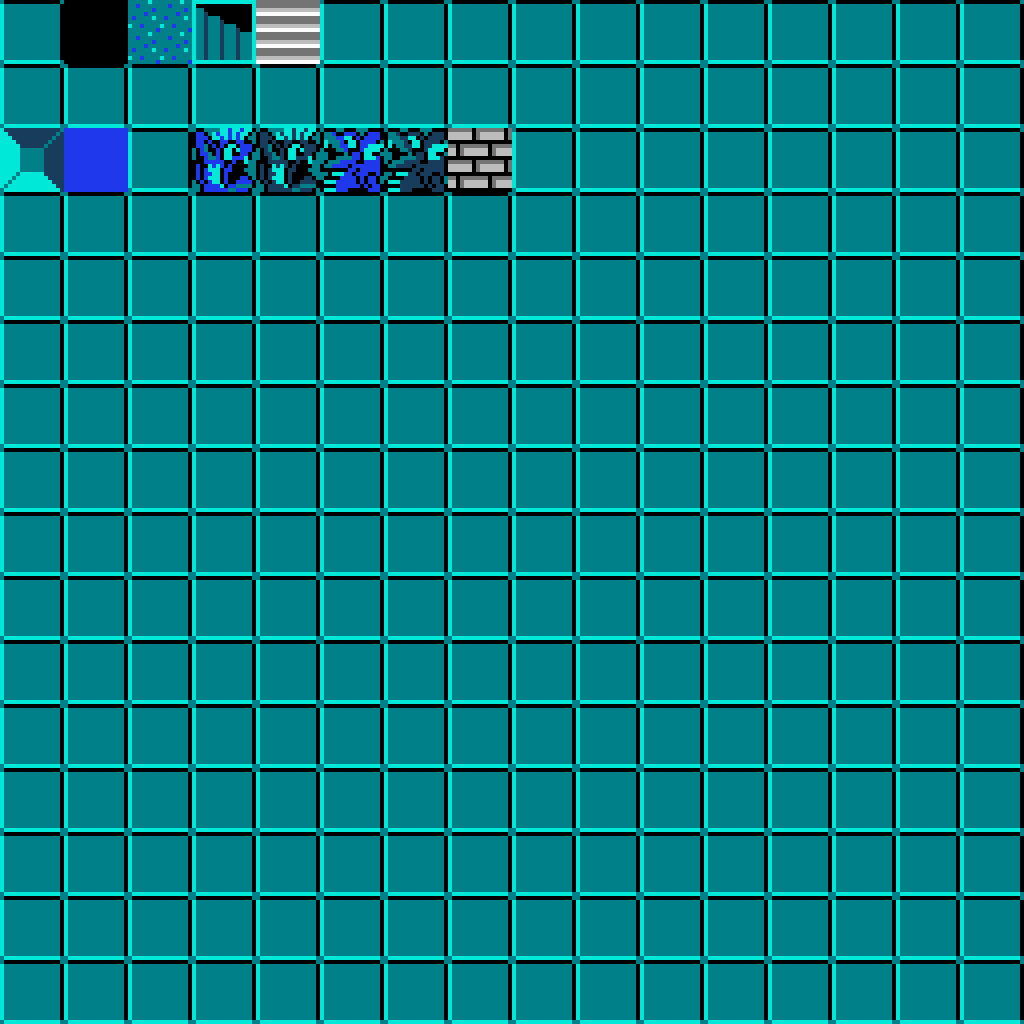
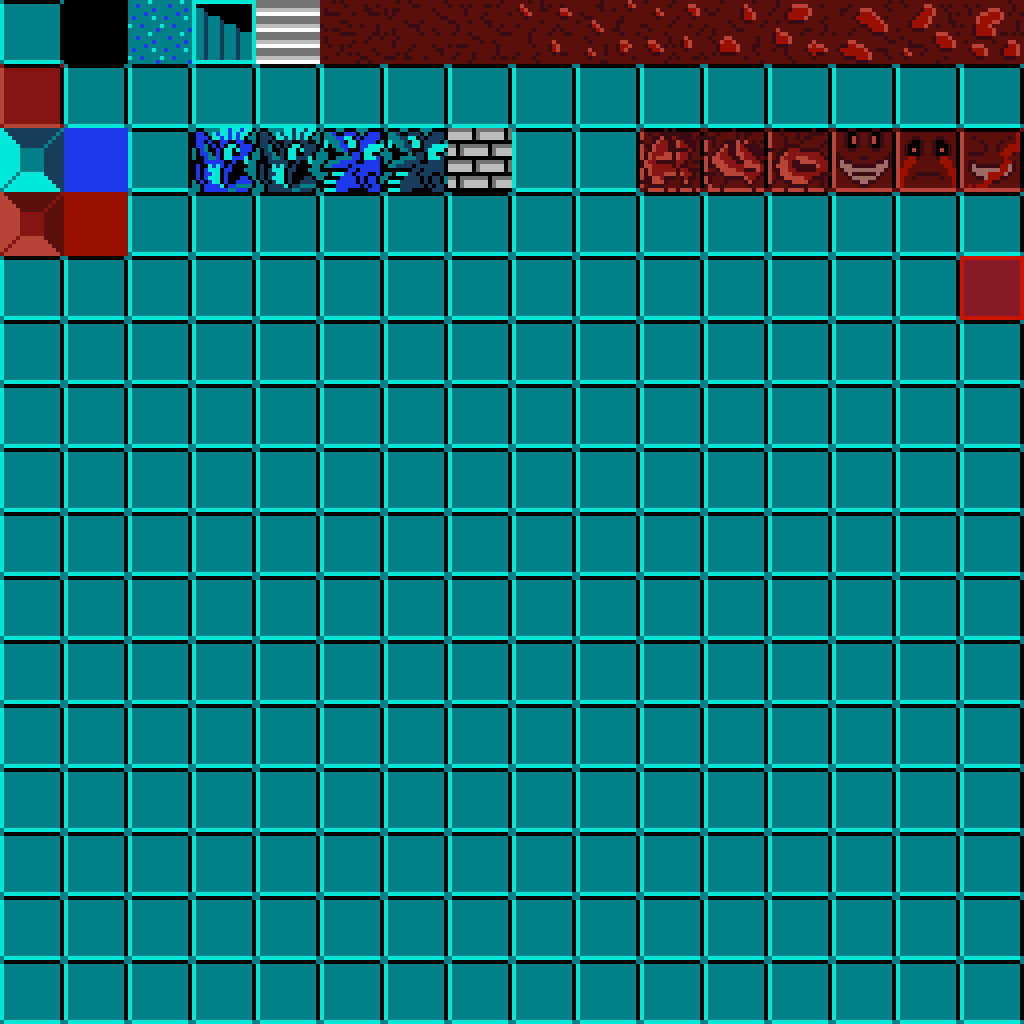
RRG now looks different

diff --git a/game/HackAndSlash/Levels/DynamicGenerations/GenerateRoom.cs b/game/HackAndSlash/Levels/DynamicGenerations/GenerateRoom.cs
@@ -16,7 +16,7 @@ namespace HackAndSlash
         public Map room { get; set; }
 
         private const int ENEMY_MAX = 8;
-        private const int ENEMY_SPAWN_BIAS = 3;
+        private const int ENEMY_SPAWN_BIAS = 15;
         private const int PATTERNED_BIAS = -10;
         private const int ITEM_TOLERANCE = 6;
         private const int ITEM_MAX = 4;
@@ -185,11 +185,36 @@ namespace HackAndSlash
         public GenerateRoom()
         {
             // Setup the template 
-            defaultBlock = 0;
             dropKeys = 0;
             dropPotions = 0;
 
-            UseStyleOne(); // Maybe later moved into other parts 
+            enemyList = new int[]{
+                GlobalSettings.SNAKE_ENEMY,
+                GlobalSettings.BUG_ENEMY,
+                GlobalSettings.MOBLIN_ENEMY
+            };
+            itemList = new int[] {
+                GlobalSettings.FIREWALL_ITEM,
+                GlobalSettings.BOMB_ITEM,
+                GlobalSettings.THROWING_KNIFE_ITEM,
+                GlobalSettings.FOOD_ITEM,
+                GlobalSettings.RUPY_ITEM
+            };
+            merchantItems = new int[] {
+                GlobalSettings.REFILL_ITEM,
+                GlobalSettings.HEART_ITEM,
+                GlobalSettings.SHIELD_ITEM
+            };
+            merchantCharaList = new int[] {
+                GlobalSettings.NPC_OLD_MAN,
+                GlobalSettings.NPC_OLD_WOMAN
+            };
+
+
+            bossIndex = GlobalSettings.BOSS_ENEMY;
+
+
+            UseStyleTwo(); // Maybe later moved into other parts 
         }
 
         /// <summary>
@@ -247,7 +272,8 @@ namespace HackAndSlash
             {
                 for (int j = 0; j < room.Arrangement.GetLength(1); j++)
                 {
-                    if (GlobalSettings.RND.Next(100) < Threshold && !IsBlock(i, j)
+                    //if (GlobalSettings.RND.Next(100) < Threshold && !IsBlock(i, j) && Count < enemyCount && canPlace[i, j])
+                    if (GlobalSettings.RND.Next(100) < Threshold 
                         && Count < enemyCount && canPlace[i, j])
                     {
                         room.Arrangement[i, j] = enemyList[GlobalSettings.RND.Next(enemyList.Length)];
@@ -295,7 +321,10 @@ namespace HackAndSlash
                 Rand = RandScatter(walkableSpread);
                 MaskOffDoorways(Rand);
             }
-            PopulatePattern(Rand, walkableBlockList[GlobalSettings.RND.Next(walkableBlockList.Length)]);
+            if (distFromStartup > MESSY_THRESHOLD)
+                PopulatePatternRand(Rand, walkableBlockList, (int)(distFromStartup / MESSY_DIVIDER));
+            else
+                PopulatePattern(Rand, walkableBlockList[GlobalSettings.RND.Next(walkableBlockList.Length)]);
 
 
             if (GlobalSettings.RND.Next(100) < solidPatternedRate) {
@@ -419,7 +448,7 @@ namespace HackAndSlash
             List<int> ActualList = new List<int>(); ;
 
             if (MaxType > ListOfIndex.Length)
-                for (int i = 0; i < MaxType; i++)
+                for (int i = 0; i < ListOfIndex.Length; i++)
                     ActualList.Add(ListOfIndex[i]);
             else {
                 ActualList = new List<int>(ListOfIndex);
@@ -510,34 +539,22 @@ namespace HackAndSlash
 
         public void UseStyleOne()
         {
-            enemyList = new int[]{
-                GlobalSettings.SNAKE_ENEMY,
-                GlobalSettings.BUG_ENEMY,
-                GlobalSettings.MOBLIN_ENEMY
-            };
+
+            defaultBlock = 0;
             walkableBlockList = new int[] { 2 };
             solidBlockLIst = new int[] { 32, 33, 35, 36, 37, 38 };
             blackRoomInedx = 1;
-            itemList = new int[] {
-                GlobalSettings.FIREWALL_ITEM,
-                GlobalSettings.BOMB_ITEM,
-                GlobalSettings.THROWING_KNIFE_ITEM,
-                GlobalSettings.FOOD_ITEM,
-                GlobalSettings.RUPY_ITEM
-            };
-            merchantItems = new int[] {
-                GlobalSettings.REFILL_ITEM,
-                GlobalSettings.HEART_ITEM,
-                GlobalSettings.SHIELD_ITEM
-            };
-            merchantCharaList = new int[] {
-                GlobalSettings.NPC_OLD_MAN,
-                GlobalSettings.NPC_OLD_WOMAN
-            };
 
 
-            bossIndex = GlobalSettings.BOSS_ENEMY;
+        }
 
+        public void UseStyleTwo()
+        {
+
+            defaultBlock = 16;
+            walkableBlockList = new int[] { 5, 6, 7, 8, 9, 10, 11, 12, 13, 14, 15, 16 };
+            solidBlockLIst = new int[] { 42, 43, 44, 45, 46, 47, 48, 49 };
+            blackRoomInedx = 1;
 
         }
 

diff --git a/game/HackAndSlash/Player/SpriteFactory.cs b/game/HackAndSlash/Player/SpriteFactory.cs
@@ -78,6 +78,8 @@ namespace HackAndSlash
         private Texture2D BlockBlank1;
         private Texture2D LevelEagleBorder;
         private Texture2D LevelEagleDoors;
+        private Texture2D LevelBloodBorder;
+        private Texture2D LevelBloodDoors;
         private Texture2D[] LevelEagleDoorNormOpen;
         private Texture2D[] LevelEagleHoles;
 
@@ -230,6 +232,8 @@ namespace HackAndSlash
             BlockAllMight = content.Load<Texture2D>(IMDB.BlockAllMight.pathName);
             LevelEagleBorder = content.Load<Texture2D>(IMDB.LevelEagleBorder.pathName);
             LevelEagleDoors = content.Load<Texture2D>(IMDB.LevelEagleDoors.pathName);
+            LevelBloodBorder = content.Load<Texture2D>(IMDB.LevelBloodBorder.pathName);
+            LevelBloodDoors = content.Load<Texture2D>(IMDB.LevelBloodDoors.pathName);
             LevelEagleDoorNormOpen = new Texture2D[] {
                 content.Load<Texture2D>(IMDB.LevelEagleDoorNormOpen[0].pathName),
                 content.Load<Texture2D>(IMDB.LevelEagleDoorNormOpen[1].pathName),
@@ -385,6 +389,14 @@ namespace HackAndSlash
         public Texture2D GetLevelEagleDoors()
         {
             return LevelEagleDoors;
+        }
+        public Texture2D GetLevelBloodBorder()
+        {
+            return LevelBloodBorder;
+        }
+        public Texture2D GetLevelBloodDoors()
+        {
+            return LevelBloodDoors;
         }
         public Texture2D GetPauseOverlay()
         {

diff --git a/game/HackAndSlash/Database.cs b/game/HackAndSlash/Database.cs
@@ -81,7 +81,9 @@ namespace HackAndSlash
         public ImageFile BlockDemo;
         public ImageFile BlockBlank1;
         public ImageFile LevelEagleBorder;
-        public ImageFile LevelEagleDoors; 
+        public ImageFile LevelEagleDoors;
+        public ImageFile LevelBloodBorder;
+        public ImageFile LevelBloodDoors;
         public ImageFile[] LevelEagleDoorNormOpen;
         public ImageFile[] LevelEagleHole;
 
@@ -203,7 +205,7 @@ namespace HackAndSlash
 
             BG = new ImageFile("images/BG", 1, 1);
 
-            BlockMovable = new ImageFile("images/blockMovable", 1, 1);
+            BlockMovable = new ImageFile("images/MoveableBlood", 1, 1);
 
             // For level blocks, they must be the same size as BASE_SCALAR
             BlockDemo = new ImageFile("images/BlockDemo", 1, 1);
@@ -211,6 +213,8 @@ namespace HackAndSlash
             BlockAllMight = new ImageFile("images/levels/blockAllMight", 1, 1);
             LevelEagleBorder = new ImageFile("images/LevelEagleBorder", 1, 1);
             LevelEagleDoors = new ImageFile("images/levels/eagleDoors", 5, 4);
+            LevelBloodBorder = new ImageFile("images/levels/BloodWall", 1, 1);
+            LevelBloodDoors = new ImageFile("images/levels/bloodDoors", 5, 4);
             LevelEagleDoorNormOpen = new ImageFile[] {
                 new ImageFile("images/levels/eagleDoorVerticalUp", 1, 1),
                 new ImageFile("images/levels/eagleDoorVerticalDown", 1, 1),

diff --git a/game/HackAndSlash/Levels/Level.cs b/game/HackAndSlash/Levels/Level.cs
@@ -161,7 +161,8 @@ namespace HackAndSlash
         // Overwrite the texture, add the border and tiles 
         private void AlterTexture()
         {
-            Texture2D Border = SpriteFactory.Instance.GetLevelEagleBorder();
+            Texture2D Border = game._AngelicMode ? SpriteFactory.Instance.GetLevelBloodBorder():
+                SpriteFactory.Instance.GetLevelEagleBorder();
             int CountBorder = Border.Width * Border.Height;
             Color[] RawDataBorder = new Color[CountBorder];
             Border.GetData<Color>(RawDataBorder);
@@ -196,7 +197,8 @@ namespace HackAndSlash
         // Update the doors, used both in initialization and when new doors are being dynamically added 
         public void UpdateDrawDoors()
         {
-            Texture2D doors = SpriteFactory.Instance.GetLevelEagleDoors();
+            Texture2D doors = game._AngelicMode? SpriteFactory.Instance.GetLevelBloodDoors():
+                SpriteFactory.Instance.GetLevelEagleDoors();
             int DoorSizeUnit = GlobalSettings.BASE_SCALAR * 2;
 
             int HorizontalPos = GlobalSettings.GAME_AREA_WIDTH / 2 - GlobalSettings.BASE_SCALAR;

diff --git a/game/HackAndSlash/Levels/DynamicGenerations/GenerateLevel.cs b/game/HackAndSlash/Levels/DynamicGenerations/GenerateLevel.cs
@@ -273,9 +273,9 @@ namespace HackAndSlash
                         RoomGen.SetPara(L1Dist, RowProgression, ColProgression);
 
                         if (!IsStartUpRoom(i, j))
-                        {
-                            RoomGen.PopulateEnemy();
+                        { 
                             RoomGen.PopulateBlock();
+                            RoomGen.PopulateEnemy();
                         }
                         RoomGen.PopulateItem();
 

diff --git a/game/HackAndSlash/Game1.cs b/game/HackAndSlash/Game1.cs
@@ -32,6 +32,7 @@ namespace HackAndSlash
         public int _FogRange = 1;
         public bool _UseOldMap = false; // Not yet used 
         public bool _EnableMouseTeleport = true;
+        public bool _AngelicMode = true;
         
 
         //Player
